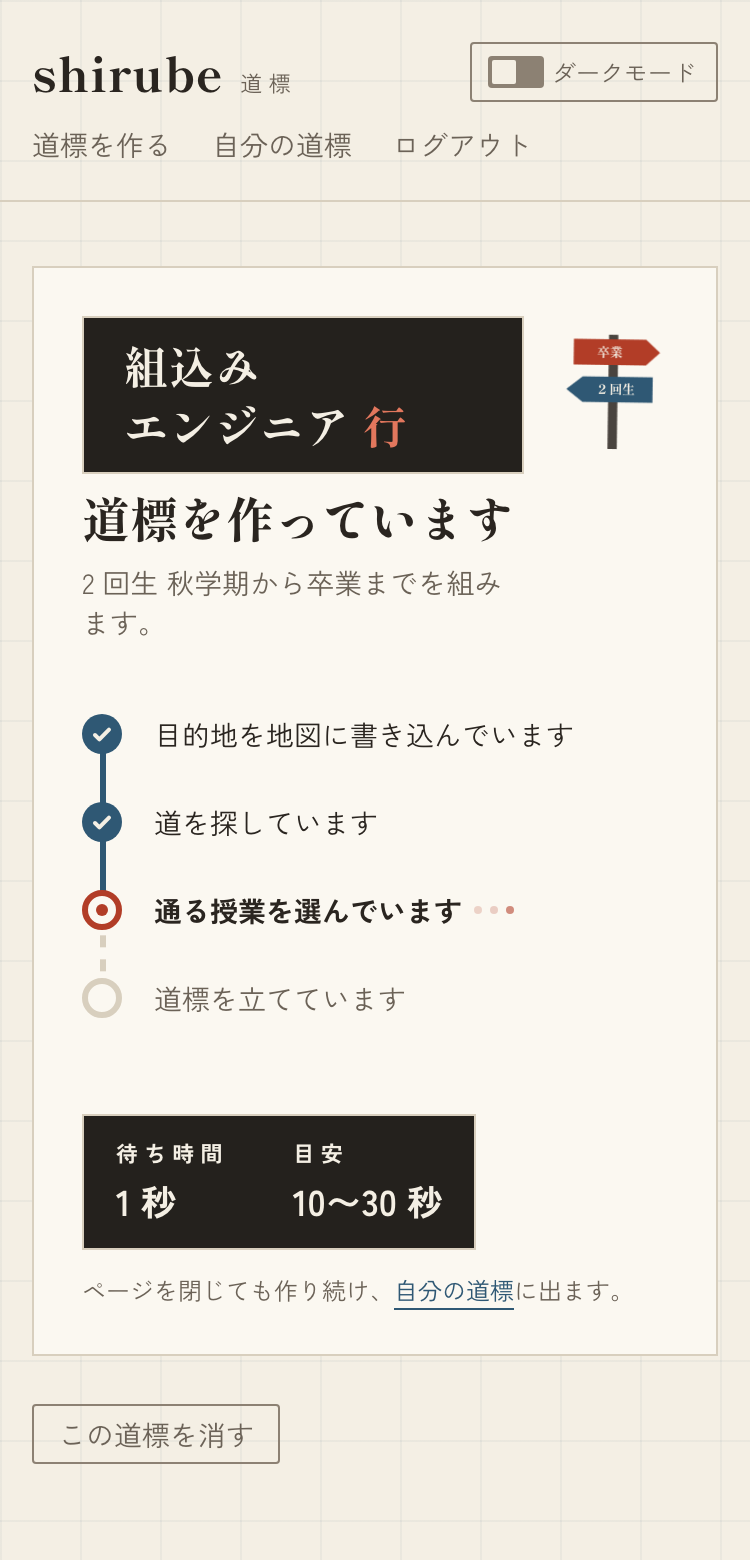
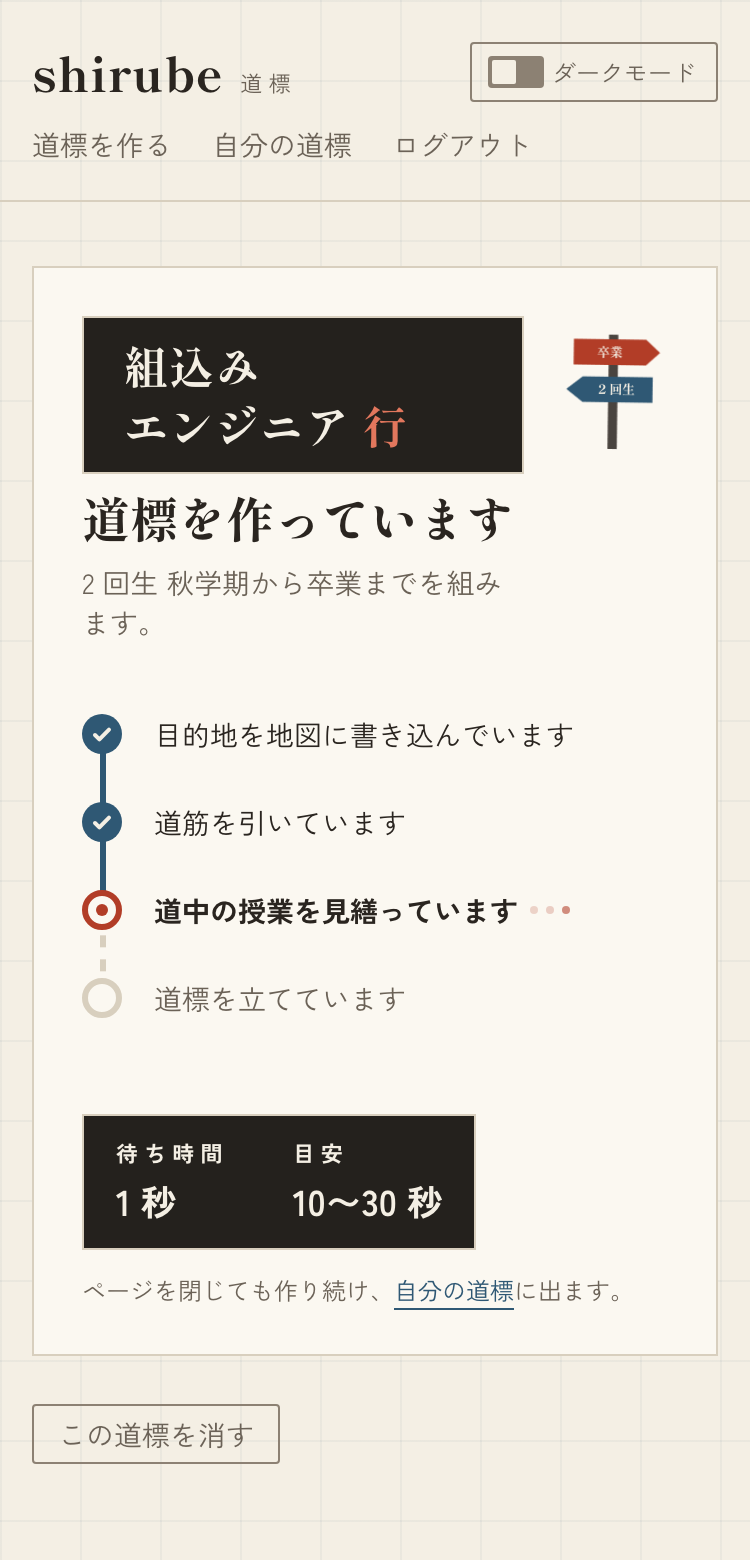
feat: 作成中の段を「道筋を引いています」「道中の授業を見繕っています」にする
ADR 0085。本番で道標を作った高橋さんが、2 番目「道を探しています」と
3 番目「通る授業を選んでいます」をださいと言った。1 番目の「目的地を
地図に書き込んでいます」と 4 番目の「道標を立てています」はそのまま。

README の作成中の画面の画像(docs/images/progress-375.png)も、前回と
同じ撮り方(e2e の作成中の決まった JSON、幅 375px を 2 倍の解像度)で
撮り直した。3 番目の言葉は、今の段の点を付けても幅 375px で 1 行に入る。

Claude-Session: https://claude.ai/code/session_01Uv4W9cMkDQr3YL2szVJVhC

Changed region(s): [[0.2147, 0.5231, 0.5213, 0.6154], [0.552, 0.5538, 0.6747, 0.6154]]

diff --git a/frontend/src/lib/labels.ts b/frontend/src/lib/labels.ts
@@ -25,8 +25,8 @@ export const RELEVANCE_LABELS: Record<Relevance, string> = {
 
 export const STAGE_LABELS: Record<PlanStage, string> = {
   analyzing: "目的地を地図に書き込んでいます",
-  searching: "道を探しています",
-  selecting: "通る授業を選んでいます",
+  searching: "道筋を引いています",
+  selecting: "道中の授業を見繕っています",
   placing: "道標を立てています",
 };
 
